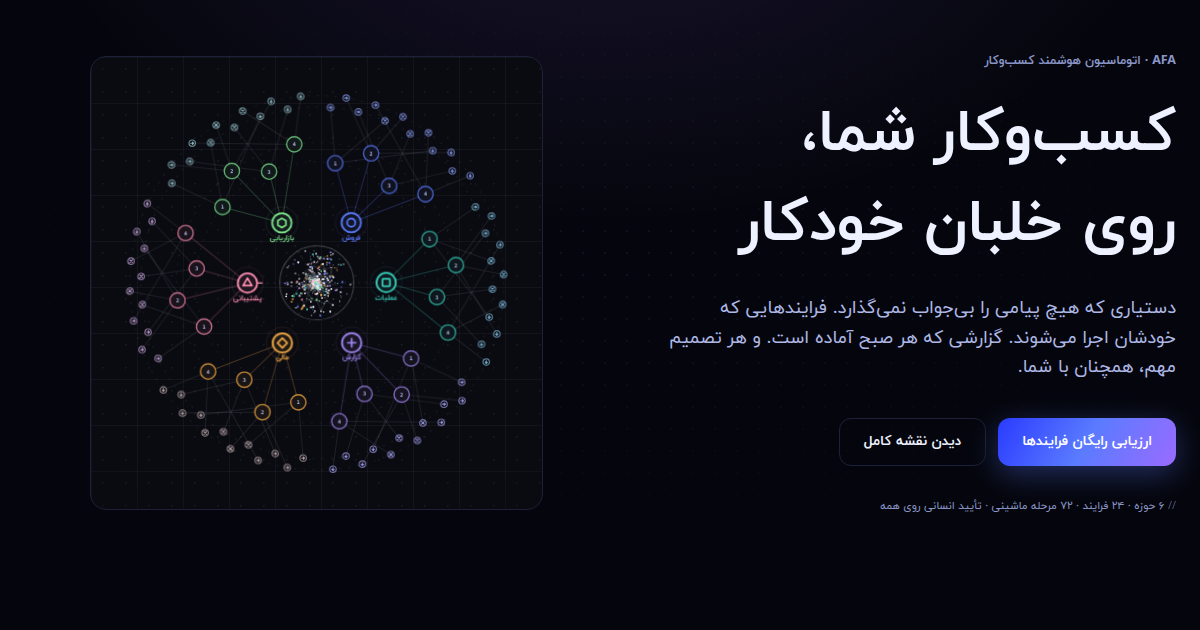
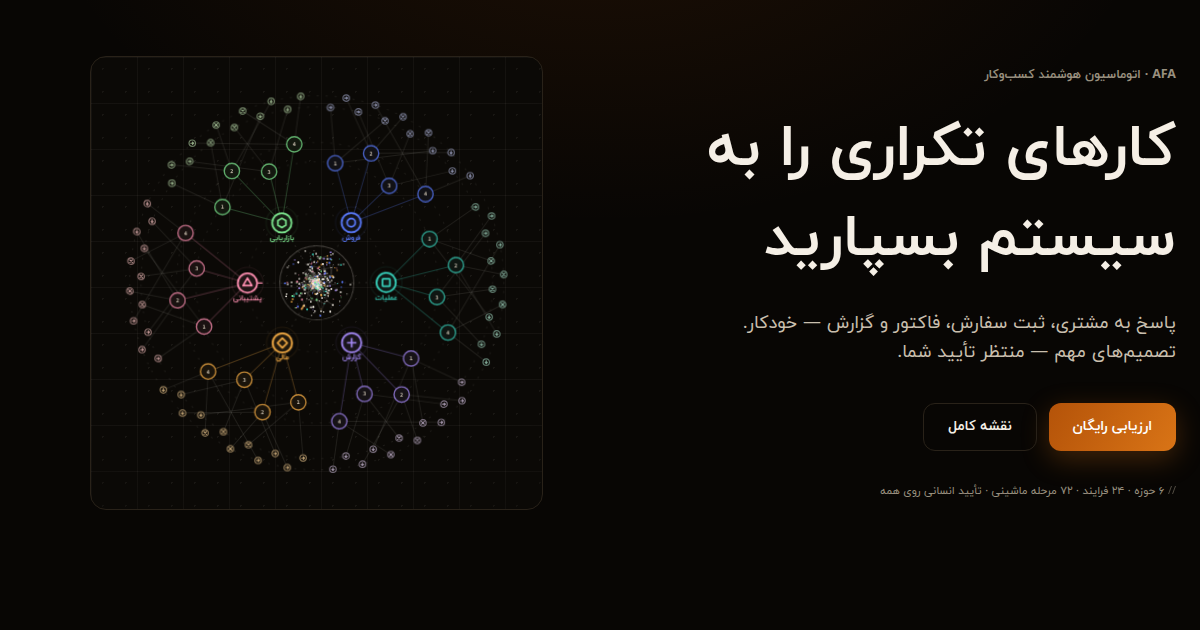
Repalette to warm black + ember, cut the copy in half, make the demo playable
Direct feedback on the last pass: the design still hadn't changed enough, the
copy still had words a shop owner wouldn't use, the hero background had to go,
and the visitor should EXPERIENCE the thing, not read about it. Researched
Lindy, Zapier, Make and the RAS structure before touching anything; the three
patterns every one of them shares are copy discipline (headlines ≤12 words,
descriptions ≤2 sentences), a demo the visitor can operate, and one accent
colour doing all the work.

PALETTE. Warm black ground, one ember-amber accent (#b45309 → #d97416, pale
#ffc46b for focus and accent text), warm ivory ink. The change lives entirely
in tokens.css: the alias layer repoints, the vendored afa-tokens.css is
untouched, and --blue now paints amber because the token name is a slot, not
a hue — zero component churn. Every value was pushed through the contrast
test, and the gradient's bright end was darkened one step when white-on-amber
came out at 2.99:1. The raster logo keeps its own neon: a recoloured logo is
a different logo.

TYPE. Latin display Cormorant → Manrope 800. The serif carried the old
star-chart voice; this site's voice is the console, and the console is a
geometric sans. Persian display unchanged.

COPY. «خلبان خودکار» and its relatives are gone — the hero now says
«کارهای تکراری را به سیستم بسپارید», which is what a customer would actually
say. Scenario lines cut to one sentence, solutions to one, subtitles to a
[…]

diff --git a/src/styles/tokens.css b/src/styles/tokens.css
@@ -38,32 +38,43 @@
    *
    * Contrast only improves (darker ground, same ink) — the contrast tests
    * resolve these very hexes and hold the floor. */
-  --bg-950: #05060d;
-  --bg-900: #070912;
-  --bg-850: #0a0d19;
+  /* REPALETTED 2026-08, by direct request («رنگ و دیزاین کلاً تغییر کنه»):
+   * the ground is now a WARM black and the accent a single ember-amber, in
+   * the register of the operator-console references AFA keeps sending. The
+   * cool navy family values stay in afa-tokens.css untouched; this alias
+   * layer simply points elsewhere, which is exactly what it is for. The
+   * token NAMES do not change — `--blue` now paints amber so that zero
+   * components churn; the name is a slot, not a hue. All six values below
+   * were run through test/contrast.test.ts, not eyeballed. */
+  --bg-950: #080604;
+  --bg-900: #0b0806;
+  --bg-850: #0e0b08;
 
-  /* Surfaces — one step above the new ground, same hue. */
-  --surface: #0d1120;
-  --surface-2: #111629;
+  /* Surfaces — one step above the ground, same warmth. */
+  --surface: #14100b;
+  --surface-2: #191410;
 
-  /* Borders — dimmed to match; the old family values glowed on pure black. */
-  --border: #1c2138;
-  --border-glass: #262c48;
+  /* Borders — warm greys, quiet on the warm black. */
+  --border: #292219;
+  --border-glass: #3a2f21;
 
-  /* Ink / text */
-  --ink: var(--afa-ink-050);
-  --muted: var(--afa-ink-200);
-  --dim: var(--afa-ink-300);
+  /* Ink / text — warm ivory instead of the family's cool one, so the page
+   * reads as one temperature. Muted clears AA on every surface (tested). */
+  --ink: #f5efe6;
+  --muted: #c9bfae;
+  --dim: #99907f;
 
-  /* Brand accents — the only "exciting" color on the page */
-  --blue: var(--afa-blue-400);
-  --violet: var(--afa-violet-400);
-  --lilac: var(--afa-violet-300);
+  /* The accent pair. Deep ember (#d97416) keeps white readable on top of it
+   * — it is the gradient's bright end and the interactive accent — and the
+   * pale amber carries focus rings and small accent text at AA-normal. */
+  --blue: #d97416;
+  --violet: #b45309;
+  --lilac: #ffc46b;
   --success: var(--afa-green-400);
 
-  /* The single brand gradient. Resolves to the deep-ground variant because
-     <html> carries data-theme="dark" — this site has no light ground. */
-  --grad-brand: var(--afa-gradient-brand);
+  /* The single brand gradient — ember, dark end to bright end. Still the
+     ONLY gradient on the page, still the primary action only. */
+  --grad-brand: linear-gradient(120deg, #b45309, #d97416);
 
   /* Radii */
   --radius-pill: var(--afa-radius-pill);
@@ -71,9 +82,9 @@
   --radius-button: var(--afa-radius-button);
   --radius-field: var(--afa-radius-field);
 
-  /* Elevation */
-  --shadow-brand: var(--afa-shadow-brand);
-  --shadow-brand-hover: var(--afa-shadow-brand-hover);
+  /* Elevation — the ember glow under the one gradient button. */
+  --shadow-brand: 0 8px 28px rgba(217, 116, 22, 0.28);
+  --shadow-brand-hover: 0 10px 36px rgba(217, 116, 22, 0.4);
 
   /* Glass surface (floating header + tool cards only) */
   --glass-bg: var(--afa-glass-bg);
@@ -122,13 +133,15 @@
    * the page rather than tinted panels. The three dots are the one place the
    * status hues appear decoratively — muted via color-mix so they read as
    * chrome, not as alerts. */
-  --win-bg: #0a0a11;
-  --win-bar: #050508;
+  --win-bg: #0b0906;
+  --win-bar: #060503;
   --win-dot-close: color-mix(in srgb, var(--afa-red-400) 75%, var(--bg-950));
   --win-dot-min: color-mix(in srgb, var(--afa-amber-400) 75%, var(--bg-950));
   --win-dot-max: color-mix(in srgb, var(--afa-green-400) 75%, var(--bg-950));
 
-  /* The mark reads its two stops from the shared semantic layer. */
+  /* The mark reads its two stops from the shared semantic layer. (The mark
+   * itself is a raster master render and keeps its own neon — a recoloured
+   * logo is a different logo; see AfaMark.tsx.) */
   --mark-from: var(--afa-mark-from);
   --mark-to: var(--afa-mark-to);
 
@@ -162,13 +175,13 @@
    * LIGHT at size, zero tracking — joined script must never be letter-spaced,
    * so lightness carries what tracking carries in Latin. Components read only
    * the three generic names; html[lang] swaps them below. */
-  --font-display: 'Cormorant Garamond', 'Times New Roman', serif;
+  --font-display: 'Manrope', 'Inter', system-ui, sans-serif;
   /* Pinned Latin display for the few places that set the LOGOTYPE rather than
    * a word being read (the footer's ghost mark) — html[lang] must not swap it. */
-  --font-display-latin: 'Cormorant Garamond', 'Times New Roman', serif;
-  --display-map-weight: 500;
-  --display-map-tracking: 0.26em;
-  --display-hero-tracking: 0.08em;
+  --font-display-latin: 'Manrope', 'Inter', system-ui, sans-serif;
+  --display-map-weight: 800;
+  --display-map-tracking: 0.18em;
+  --display-hero-tracking: 0.01em;
 }
 
 html[lang='fa'] {

diff --git a/src/components/tools/assistant-demo.tsx b/src/components/tools/assistant-demo.tsx
@@ -1,0 +1,118 @@
+'use client';
+
+import { useEffect, useRef, useState } from 'react';
+import { cn } from '@/lib/cn';
+
+/* -----------------------------------------------------------------------------
+   The assistant, playable — the research's one consistent finding (Lindy's
+   task loop, RAS's live transcript): a demo the visitor OPERATES beats any
+   screenshot. The visitor plays the customer, picks one of two messages, and
+   watches the assistant answer and file the result.
+
+   Scripted, not live — two fixed exchanges, clearly tagged «نمونه نمایشی» by
+   the card that hosts it. All strings arrive as props from the server parent;
+   this component ships no catalog.
+   -------------------------------------------------------------------------- */
+
+export interface AssistantPlayCopy {
+  readonly prompt: string;
+  readonly q1: string;
+  readonly a1: string;
+  readonly b1: string;
+  readonly q2: string;
+  readonly a2: string;
+  readonly b2: string;
+  readonly replay: string;
+}
+
+type Stage = 'idle' | 'typing' | 'answered';
+
+export function AssistantDemo({ copy }: { copy: AssistantPlayCopy }) {
+  const [choice, setChoice] = useState<1 | 2 | null>(null);
+  const [stage, setStage] = useState<Stage>('idle');
+  const timer = useRef<ReturnType<typeof setTimeout> | null>(null);
+
+  useEffect(() => () => {
+    if (timer.current) clearTimeout(timer.current);
+  }, []);
+
+  const send = (next: 1 | 2) => {
+    if (stage === 'typing') return;
+    setChoice(next);
+    setStage('typing');
+    if (timer.current) clearTimeout(timer.current);
+    timer.current = setTimeout(() => setStage('answered'), 900);
+  };
+
+  const reset = () => {
+    if (timer.current) clearTimeout(timer.current);
+    setChoice(null);
+    setStage('idle');
+  };
+
+  const question = choice === 1 ? copy.q1 : copy.q2;
+  const answer = choice === 1 ? copy.a1 : copy.a2;
+  const badge = choice === 1 ? copy.b1 : copy.b2;
+
+  return (
+    <div className="grid gap-2.5 text-sm leading-relaxed" aria-live="polite">
+      {choice === null ? (
+        <>
+          <p className="text-xs text-dim">{copy.prompt}</p>
+          <div className="flex flex-wrap gap-2">
+            {([1, 2] as const).map((option) => (
+              <button
+                key={option}
+                type="button"
+                onClick={() => send(option)}
+                className="min-h-10 rounded-pill border border-border px-4 text-sm text-ink transition-colors hover:border-[var(--tone)] hover:text-[var(--tone)]"
+              >
+                {option === 1 ? copy.q1 : copy.q2}
+              </button>
+            ))}
+          </div>
+        </>
+      ) : (
+        <>
+          <p className="me-8 w-fit rounded-card rounded-ss-[4px] border border-border bg-surface px-3.5 py-2 text-muted">
+            {question}
+          </p>
+
+          {stage === 'typing' ? (
+            <p
+              aria-hidden
+              className="ms-8 flex w-fit items-center gap-1 justify-self-end rounded-card rounded-se-[4px] border border-border px-3.5 py-2.5"
+            >
+              {[0, 1, 2].map((dot) => (
+                <span
+                  key={dot}
+                  className="size-1.5 animate-pulse rounded-pill bg-dim"
+                  style={{ animationDelay: `${dot * 160}ms` }}
+                />
+              ))}
+            </p>
+          ) : (
+            <>
+              <p className="ms-8 w-fit justify-self-end rounded-card rounded-se-[4px] border border-[color-mix(in_srgb,var(--tone)_45%,transparent)] bg-[color-mix(in_srgb,var(--tone)_12%,transparent)] px-3.5 py-2 text-ink">
+                {answer}
+              </p>
+              <div className="flex items-center justify-between gap-3 border-t border-border pt-3">
+                <p className="meta text-[10.5px] leading-relaxed text-success">{badge}</p>
+                <button
+                  type="button"
+                  onClick={reset}
+                  className={cn(
+                    'meta shrink-0 rounded-pill border border-border px-3 py-1 text-[10px] text-dim',
+                    'transition-colors hover:border-border-glass hover:text-ink',
+                  )}
+                >
+                  {copy.replay}
+                </button>
+              </div>
+            </>
+          )}
+        </>
+      )}
+    </div>
+  );
+}

diff --git a/src/components/sections/services.tsx b/src/components/sections/services.tsx
@@ -1,5 +1,6 @@
 import { useTranslations } from 'next-intl';
 import { Link } from '@/i18n/navigation';
+import { AssistantDemo, type AssistantPlayCopy } from '@/components/tools/assistant-demo';
 import { Container } from '@/components/ui/container';
 import { SectionHead } from '@/components/ui/editorial';
 import { cn } from '@/lib/cn';
@@ -122,22 +123,22 @@ function Demo({ id }: { id: ServiceId }) {
   const t = useTranslations('Services');
 
   if (id === 'assistant') {
+    /* The one demo the visitor can OPERATE — every reference site's strongest
+       move. Strings resolve here on the server and travel as props; the
+       client component ships no catalog. */
+    const play: AssistantPlayCopy = {
+      prompt: t('play.prompt'),
+      q1: t('play.q1'),
+      a1: t('play.a1'),
+      b1: t('play.b1'),
+      q2: t('play.q2'),
+      a2: t('play.a2'),
+      b2: t('play.b2'),
+      replay: t('play.replay'),
+    };
     return (
       <DemoCard id={id}>
-        <div className="grid gap-2.5 text-sm leading-relaxed">
-          <p className="me-8 w-fit rounded-card rounded-ss-[4px] border border-border bg-surface px-3.5 py-2 text-muted">
-            {t('demos.assistant.in')}
-          </p>
-          <p className="ms-8 w-fit justify-self-end rounded-card rounded-se-[4px] border border-[color-mix(in_srgb,var(--tone)_45%,transparent)] bg-[color-mix(in_srgb,var(--tone)_12%,transparent)] px-3.5 py-2 text-ink">
-            {t('demos.assistant.out')}
-          </p>
-          <p className="me-8 w-fit rounded-card rounded-ss-[4px] border border-border bg-surface px-3.5 py-2 text-muted">
-            {t('demos.assistant.in2')}
-          </p>
-        </div>
-        <p className="meta mt-3 border-t border-border pt-3 text-[10.5px] leading-relaxed text-success">
-          {t('demos.assistant.badge')}
-        </p>
+        <AssistantDemo copy={play} />
       </DemoCard>
     );
   }

diff --git a/src/app/[locale]/page.tsx b/src/app/[locale]/page.tsx
@@ -14,8 +14,8 @@ import { Contact } from '@/components/sections/contact';
  *                 honestly tagged «نمونهٔ نمایشی»
  *   Services 01   four offers, each opened by a scene the visitor recognises
  *                 and closed by an outcome line, with a console card beside it
- *   Work     02   proof: before → what was deployed → after
- *   Impact   03   the calculator, with an ask under the result
+ *   Impact   02   the calculator — «تجربه کنید», straight after the offer
+ *   Work     03   proof: before → what was deployed → after
  *   Start    04   process + «چرا ما» differentiators (absorbed the Manifesto)
  *   Contact  05   the free assessment form, remaining questions beside it
  */
@@ -30,8 +30,8 @@ export default async function HomePage(props: {
       <MapHero />
       <Pulse />
       <Services />
-      <Work />
       <Impact />
+      <Work />
       <Start />
       <Contact />
     </>

diff --git a/src/app/[locale]/map/page.tsx b/src/app/[locale]/map/page.tsx
@@ -123,8 +123,6 @@ function MapPageBody() {
           on the far side rather than centred under it — so the drawing starts
           as high on the screen as it can. */}
       <section className="relative overflow-hidden border-b border-border">
-        <span aria-hidden className="dot-field dot-fade absolute inset-0" />
-
         <div className="relative z-10 mx-auto w-full max-w-[90rem] px-3 pb-16 pt-20 sm:px-6">
           <header className="mb-8 grid items-end gap-6 lg:grid-cols-[minmax(0,1fr)_26rem]">
             <div>

diff --git a/src/components/sections/map-hero.tsx b/src/components/sections/map-hero.tsx
@@ -92,8 +92,6 @@ export function MapHero() {
 
   return (
     <section id="top" className="relative overflow-hidden border-b border-border">
-      <span aria-hidden className="dot-field dot-fade absolute inset-0" />
-
       <div className="relative mx-auto flex w-full max-w-[92rem] flex-col justify-center px-4 py-12 sm:px-6 lg:min-h-[calc(100svh-4rem)] lg:py-10">
         <div className="grid grid-cols-1 items-center gap-10 lg:grid-cols-[minmax(0,0.94fr)_minmax(0,1.06fr)] lg:gap-12">
           <div>

diff --git a/src/components/sections/impact.tsx b/src/components/sections/impact.tsx
@@ -33,7 +33,7 @@ export function Impact() {
   return (
     <section id="impact" className="scroll-mt-24 border-t border-border py-16 sm:py-24">
       <Container>
-        <SectionHead index="03" eyebrow={t('eyebrow')} title={t('title')} lede={t('subtitle')} />
+        <SectionHead index="02" eyebrow={t('eyebrow')} title={t('title')} lede={t('subtitle')} />
 
         <Window title={t('windowTitle')} className="mt-12">
           <ImpactCalculator />

diff --git a/src/components/sections/work.tsx b/src/components/sections/work.tsx
@@ -26,7 +26,7 @@ export function Work() {
   return (
     <section id="work" className="scroll-mt-24 border-t border-border py-16 sm:py-24">
       <Container>
-        <SectionHead index="02" eyebrow={t('eyebrow')} title={t('title')} lede={t('subtitle')} />
+        <SectionHead index="03" eyebrow={t('eyebrow')} title={t('title')} lede={t('subtitle')} />
 
         <RuledPanel columns={3} className="mt-12">
           {items.map((id) => (

diff --git a/CLAUDE.md b/CLAUDE.md
@@ -18,15 +18,19 @@ mono console). One page, the RAS spine:
    its realism from that tag; removing it turns the section into a fabricated
    metric.
 3. **Services** (01) — the heart. Four offers (assistant, operations
-   automation, website/store, reports), each in three beats: the SCENE (a
+   automation, website/store, reports), each in three beats. The assistant's
+   demo card is PLAYABLE (`tools/assistant-demo.tsx` — visitor picks a
+   customer message, watches the scripted answer + filing); copy arrives as
+   props, the client ships no catalog. Each offer: the SCENE (a
    moment the visitor recognises, present tense), the SYSTEM (what gets
    deployed, no adjectives), the OUTCOME (one bold line). A console card
    beside each shows the thing itself — chat exchange, run with its human
    checkpoint, receipt, morning brief — every card tagged «نمونه نمایشی».
    The four services are the four things the case studies prove were shipped.
-4. **Work** (02) — proof as before → what was deployed → after.
-5. **Impact** (03) — the calculator, an ask under the result.
-6. **Start** (04) — four steps + «چرا ما» differentiators (absorbed the old
+4. **Impact** (02, «تجربه کنید») — the calculator, straight after the offer;
+   the interactive moments ARE the argument, so they come early.
+6. **Work** (03) — proof as before → what was deployed → after.
+7. **Start** (04) — four steps + «چرا ما» differentiators (absorbed the old
    Manifesto and the checkmark notes; one home for those claims, not three).
 7. **Contact** (05) — reframed as the FREE ASSESSMENT («ارزیابی رایگان
    فرایندها») — the RAS conversion device; every CTA on the page converges
@@ -38,7 +42,9 @@ read).
 
 ## Copy voice
 
-Scenario first, outcome last, zero adjectives in between. The scene is second
+SHORT. Headlines ≤ 12 words, descriptions ≤ 2 sentences (the Lindy/Make
+discipline); no metaphors a shop owner wouldn't use — «خلبان خودکار» died for
+this. Scenario first, outcome last, zero adjectives in between. The scene is second
 person, present tense («ساعت ۱۱ شب است. مشتری در دایرکت قیمت میپرسد…») —
 recognition is what "feeling real" means. Claims may only restate what the
 case studies and FAQ already establish; performance numbers (RAS shows «25hrs
@@ -63,9 +69,20 @@ afa-site, afa-pay and this site. Three moves carry it:
    needs index arithmetic and the rules stay correct across breakpoints.
 2. **The tracked eyebrow.** Every section opens with `.eyebrow` above the
    heading, plus a running index (`01`…`06`).
-3. **Rationed light.** Deep navy stays deep. The brand gradient appears on the
-   primary action only — no gradient headlines. Glow at most three times per
-   page.
+3. **Rationed light.** The ground stays deep. The brand gradient appears on
+   the primary action only — no gradient headlines. Glow at most three times
+   per page.
+
+**REPALETTED 2026-08** by direct request: warm black ground + a single
+ember-amber accent (`#b45309 → #d97416`, pale `#ffc46b` for focus/accent
+text), warm ivory ink. The change lives ENTIRELY in tokens.css — the alias
+layer repoints, afa-tokens.css stays vendored and untouched, and `--blue`
+now paints amber because the token name is a slot, not a hue. Every value
+went through test/contrast.test.ts. Latin display switched Cormorant → 
+**Manrope 800** (the console voice is a geometric sans, not a garalde);
+Persian display unchanged. The dotted hero background is gone by direct
+request. The raster logo keeps its own neon — a recoloured logo is a
+different logo (AfaMark.tsx).
 
 **Bilingual display type is not one mechanism.** Latin gets uppercase + open
 tracking; Persian gets weight 800 and a tighter block, and **zero tracking** —
